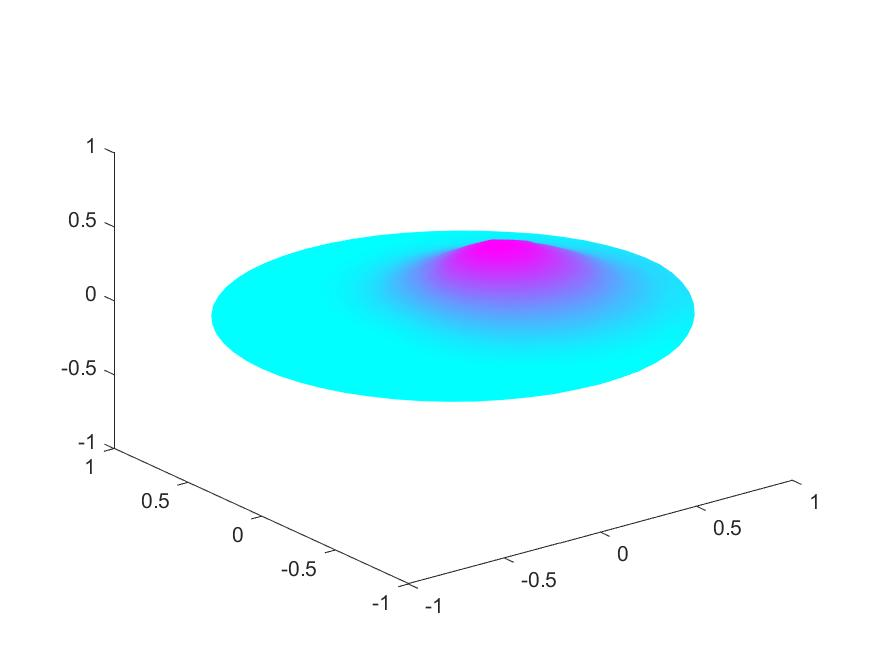
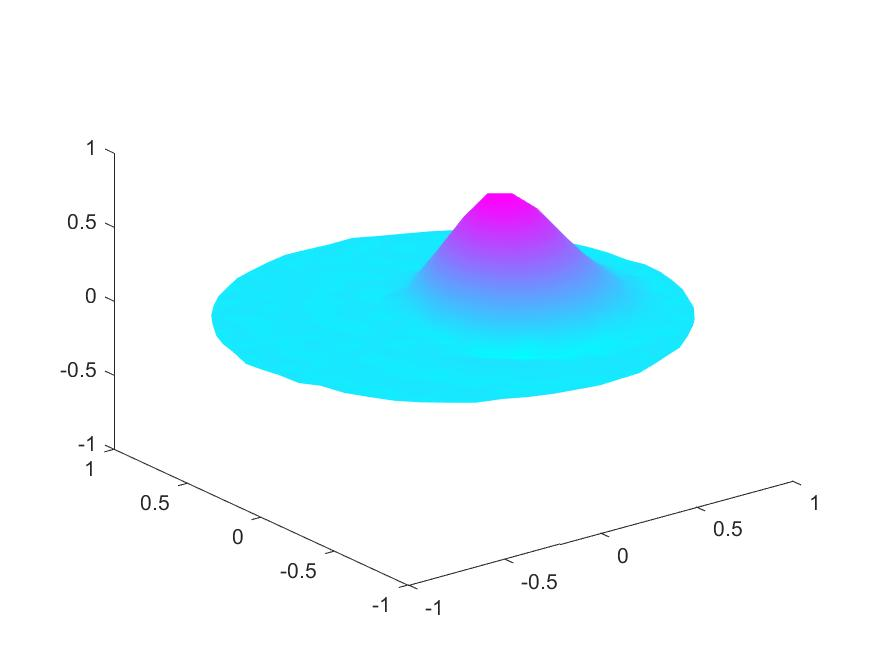
Fixed RV in FEM project, Piccard iteration nearly done in Project 3

diff --git a/FDM_Assign3_Julien/Code/RunPart1.m b/FDM_Assign3_Julien/Code/RunPart1.m
@@ -2,28 +2,125 @@ close all;
 clear all;
 
 
-gridDim = 101;
+gridDim = 201;
 numberOfIterations = 1000;
 deltaT = 0.4/numberOfIterations;
 a=1;
 c=2;
 %eps=.00001;
-x = linspace(-1,1,gridDim)'
-% for i=1:numberOfIterations
-%     u = AnalyticSolution(x,deltaT*i, c, a, eps);
-%     plot(u
-%     ylim([0,5])
-%     drawnow
-% 
-% end %for, i
+x = linspace(-1,1,gridDim)';
+u = AnalyticSolution(x,0, c, a, eps);
+plot(u,'linewidth',2)
+title('Analytic solution: t=0')
+print('ANM_Ass_3_FDM_analyticSolutionBegin','-djpeg')
+for i=1:numberOfIterations
+    u = AnalyticSolution(x,deltaT*i, c, a, eps);
+    
+    plot(u)
+    ylim([0,5])
+    drawnow
 
 
-
-v = RunSimulation3(gridDim, deltaT, numberOfIterations, @MakeSBP2Operators_Variable);
-
-v
-plot(v);
+end %for, i
+title('Analytic solution: t=T')
+print('ANM_Ass_3_FDM_analyticSolutionEnd','-djpeg')
 
 
+%v = RunSimulation3(gridDim, deltaT, numberOfIterations, @MakeSBP6Operators_Variable);
+
+%plot(v);
+%title('SBP 6 solution: t=T')
+
+
+%% Task 4
+vAnalytic = AnalyticSolution(x,0.4, c, a, eps);
+v2 = RunSimulation3(gridDim, deltaT, numberOfIterations, @MakeSBP2Operators_Variable, eps);
+
+norm(vAnalytic-v2,2)
+
+v4 = RunSimulation3(gridDim, deltaT, numberOfIterations, @MakeSBP4Operators_Variable, eps);
+norm(vAnalytic-v4,2)
+
+
+v6 = RunSimulation3(gridDim, deltaT, numberOfIterations, @MakeSBP6Operators_Variable, eps);
+norm(vAnalytic-v6,2)
+
+subplot(3,1,1)
+plot(v2)
+title('SBP 2 solution: t=T','linewidth',1.3);
+subplot(3,1,2)
+plot(v4)
+title('SBP 4 solution: t=T','linewidth',1.3);
+subplot(3,1,3)
+plot(v6)
+title('SBP 6 solution: t=T','linewidth',1.3);
+
+
+print('ANM_Ass_3_FDM_SBPFinalState','-djpeg');
+
+%% Task 5
+m = 101;
+eps = 0.1;
+v_eps1 = RunSimulation3(m, deltaT, numberOfIterations, @MakeSBP4Operators_Variable, eps);
+
+m = 101;
+eps = 0.01;
+v_eps2 = RunSimulation3(m, deltaT, numberOfIterations, @MakeSBP4Operators_Variable, eps);
+
+m = 101;
+eps = 0.001;
+v_eps3 = RunSimulation3(m, deltaT, numberOfIterations, @MakeSBP4Operators_Variable, eps);
+
+m = 101;
+eps = 10^(-6);
+v_eps4 = RunSimulation3(m, deltaT, numberOfIterations, @MakeSBP4Operators_Variable, eps);
+
+subplot(4,1,1)
+plot(v_eps1)
+title('SBP 4 solution: eps = 0.1','linewidth',1.3);
+subplot(4,1,2)
+plot(v_eps2)
+title('SBP 4 solution: eps = 0.01','linewidth',1.3);
+subplot(4,1,3)
+plot(v_eps3)
+title('SBP 4 solution: eps = 0.001','linewidth',1.3);
+subplot(4,1,4)
+plot(v_eps4)
+title('SBP 4 solution: eps = 10^{-6}','linewidth',1.3);
+
+print('ANM_Ass_3_FDM_dependenceEps','-djpeg');
+
+
+%% Task 6
+m = 101;
+eps = 10^(-6);
+v11 = RunSimulation3(m, deltaT, numberOfIterations, @MakeSBP2Operators_Variable, eps);
+v21 = RunSimulation3(m, deltaT, numberOfIterations, @MakeSBP4Operators_Variable, eps);
+v31 = RunSimulation3(m, deltaT, numberOfIterations, @MakeSBP6Operators_Variable, eps);
+
+
+v12 = RunSimulation3(m, deltaT, numberOfIterations, @MakeSBP2Operators_Variable, eps);
+v22 = RunSimulation3(m, deltaT, numberOfIterations, @MakeSBP4Operators_Variable, eps);
+v32 = RunSimulation3(m, deltaT, numberOfIterations, @MakeSBP6Operators_Variable, eps);
+
+subplot(3,2,1)
+plot(v11)
+title('SBP 2 sol.','linewidth',1.3);
+subplot(3,2,3)
+plot(v21)
+title('SBP 4 sol.','linewidth',1.3);
+subplot(3,2,5)
+plot(v31)
+title('SBP 6 sol.','linewidth',1.3);
+subplot(3,2,2)
+plot(v12)
+title('SBP 2 sol.: Artificial dissipation','linewidth',1.3)
+subplot(3,2,4)
+plot(v22)
+title('SBP 4 sol.: Artificial dissipation','linewidth',1.3)
+subplot(3,2,6)
+plot(v32)
+title('SBP 6 sol: Artificial dissipation','linewidth',1.3)
+print('ANM_Ass_3_FDM_AD','-djpeg')
 
 

diff --git a/FDM_Assign3_Julien/Code/RunSimulation3.m b/FDM_Assign3_Julien/Code/RunSimulation3.m
@@ -1,9 +1,9 @@
-function v = RunSimulation3(gridDim, deltaT, numberOfIterations, MakeSBPOperators)
+function v = RunSimulation3(gridDim, deltaT, numberOfIterations, MakeSBPOperators, eps)
 
     %initialisation
     c = 2;
     a = 1;
-    eps = .00001;
+    
     
     %space
     h = 2/(gridDim-1);
@@ -11,7 +11,10 @@ function v = RunSimulation3(gridDim, deltaT, numberOfIterations, MakeSBPOperator
 
     %initial data
     v = AnalyticSolution(x,0,c,a,eps);
-    [HI, D1, D2, DD, M, MakeD2] = MakeSBPOperators(gridDim);
+    plot(v)
+    
+    %[HI, D1, D2, DD, M, MakeD2] = MakeSBPOperators(gridDim);
+    [HI, D1, D2, DD, M] = MakeSBPOperators(gridDim);
     Hinv = HI;
     
     gamma = 1;
@@ -19,15 +22,16 @@ function v = RunSimulation3(gridDim, deltaT, numberOfIterations, MakeSBPOperator
     
     
     %runge kutta step
-    vprevaaa = v;
+    %vprevaaa = v;
     for i=1:numberOfIterations
         %v = RungeKutta4Step(@(t,v) SAT_iterate(t,v,D1,D2,Hinv,eps), i*deltaT, v, deltaT);
-        %v = RungeKutta4Step(@(t,v) SAT_iterate_AD(t,v,D1,D2,DI,Hinv,eps), i*deltaT, v, deltaT);
-        Iterate = @(t,v,vprev) SAT_iterate_RV( t, v, vprev, D1, D2, MakeD2, Hinv, deltaT, h, eps);
-        v_new = RungeKutta4StepEx(Iterate, i*deltaT, v, vprevaaa, deltaT);
-        vprevaaa = v;
-        v = v_new;
-        figure(1);
+        v = RungeKutta4Step(@(t,v) SAT_iterate_AD(t,v,D1,D2,DI,Hinv,eps), i*deltaT, v, deltaT);
+        
+        %Iterate = @(t,v,vprev) SAT_iterate_RV( t, v, vprev, D1, D2, MakeD2, Hinv, deltaT, h, eps);
+        %v_new = RungeKutta4StepEx(Iterate, i*deltaT, v, vprevaaa, deltaT);
+        %vprevaaa = v;
+        %v = v_new;
+        %figure(1);
         plot(v)
         ylim([0,5])
         drawnow
@@ -35,4 +39,5 @@ function v = RunSimulation3(gridDim, deltaT, numberOfIterations, MakeSBPOperator
             break;
         end
     end
+    
 end

diff --git a/FEM_Assign1/Code/SolverRV.m b/FEM_Assign1/Code/SolverRV.m
@@ -16,35 +16,13 @@ function [U, M] = SolverRV(p, t, xiInitial, timeStep, numIters)
         B = -1/2*C + 1/timeStep*M - 1/2*RV;
         bb = B*xi;
         xi_new = A\bb;
-        r = Residual(p, t, xi_new, xi, timeStep);
+        r = Residual(M, C, xi_new, xi, timeStep);
         xi = xi_new;
         U(:,i+1)=xi;
     end
 end
 
-function r = Residual(p, t, xi, xi_old, timeStep)
-    np=size(p,2); nt=size(t,2);     
-    r = ones(np, 1)*-5000;
-    
-    for i=1:nt 
-        nodeIndices=t(1:3,i);
-        
-        % Calculate grad(U) for triangle.
-        x=p(1,nodeIndices);
-        y=p(2,nodeIndices);
-        z=xi(nodeIndices);
-        v1 = [x(1), y(1), z(1)] - [x(2), y(2), z(2)];
-        v2 = [x(1), y(1), z(1)] - [x(3), y(3), z(3)];
-        num1 = v1(3)*v2(2) - v1(2)*v2(3);
-        num2 = v1(1)*v2(3) - v2(1)*v1(3);
-        den = v2(2)*v1(1) - v1(2)*v2(1);
-        dzdx = num1/den;
-        dzdy = num2/den;
-        
-        % Calculate residual for the 3 points of the triangle using grad(U)
-        % for the triangle.        
-        z_old=xi_old(nodeIndices);
-        rTriangle = 1/timeStep*(z-z_old) + 2*pi*[-y', x']*[dzdx; dzdy];
-        r(nodeIndices) = max(r(nodeIndices), max(abs(rTriangle)));
-    end
+function r = Residual(M, C, xi, xi_old, timeStep)
+    lhs = 1/timeStep*(M*(xi - xi_old)) + C*xi;
+    r = M\lhs;
 end

diff --git a/FEM_Assign1/Code/RunPart2.m b/FEM_Assign1/Code/RunPart2.m
@@ -1,10 +1,12 @@
 close all;
 %ProblemOptimal();
 close all;
-Problem22();
+%Problem22();
 close all;
-%Problem23();
+Problem23();
 close all;
+
+%convergence for RV: smooth: 1.7237, discont.: 0.48594
 
 function MakeAnims(RunSimulationFunc, InitialFunc, simName)
     h = [1/8, 1/16];
@@ -33,6 +35,11 @@ function CalcConvergence(RunSimulationFunc, InitialFunc, simName)
         L2Errors(i) = sqrt(nodeError'*M*nodeError);
     end
     
+    % Calculate slope
+    coeffs = polyfit(log(h), log(L2Errors), 1);
+    alpha = coeffs(1);
+    disp(['Convergence rate = ', num2str(alpha)]);
+    
     % Plot h vs L2Error
     figure;
     subplot(1,2,1)
@@ -60,10 +67,10 @@ end
 function Problem22()
     MakeAnims(@RunSimulationGLS, @InitialBoobyFunction, 'gls_smooth');
     close all;
-    %MakeAnims(@RunSimulationRV, @InitialBoobyFunction, 'rv_smooth');
+    MakeAnims(@RunSimulationRV, @InitialBoobyFunction, 'rv_smooth');
     close all;
-    %CalcConvergence(@RunSimulationGLS, @InitialBoobyFunction, 'gls_smooth');
-    %CalcConvergence(@RunSimulationRV, @InitialBoobyFunction, 'rv_smooth');
+    CalcConvergence(@RunSimulationGLS, @InitialBoobyFunction, 'gls_smooth');
+    CalcConvergence(@RunSimulationRV, @InitialBoobyFunction, 'rv_smooth');
     close all;
 end
 

diff --git a/FEM_Assign3/Code/ConvectionMatrixGFEM.m b/FEM_Assign3/Code/ConvectionMatrixGFEM.m
@@ -5,24 +5,17 @@ function convectionMatrix = ConvectionMatrixGFEM(p,t, uprev)
     
     for i=1:numTriangles
         nodeIndices = t(1:3,i);
-        x=p(1,nodeIndices);
-        y=p(2,nodeIndices);
+        %x=p(1,nodeIndices);
+        %y=p(2,nodeIndices);
 
         [area,b,c] = HatGradients(x,y);
-        [sK, cK] = fK(nodeIndices, uprev);
-            
-        subMatrix=ones(3,1)*(sK*b + cK*c)'*area/3;
+    
+        %bxmid = mean(-2*pi*y);
+        %bymid = mean(2*pi*x);
+        fprimeUprev1 = cos(uprev(nodeIndices));
+        fprimeUprev2 = -sin(uprev(nodeIndices));
+    
+        subMatrix=ones(3,1)*(fprimeUprev2*b + fprimeUprev2*c)'*area/3;
         convectionMatrix(nodeIndices,nodeIndices) = convectionMatrix(nodeIndices,nodeIndices) + subMatrix;
     end
-end
-
-function [s,c] = f(u)
-    s = sin(u);
-    c = cos(u);
-end
-
-function [sK, cK] = fK(nodeIndices, u)
-    [s, c] = f(u(nodeIndices));
-    sK = mean(s);
-    cK = mean(c);
 end

diff --git a/FEM_Assign1/Code/ConvectionMatrixRV.m b/FEM_Assign1/Code/ConvectionMatrixRV.m
@@ -19,14 +19,15 @@ function convectionMatrix = ConvectionMatrixRV(p, t, u, r)
         convectionMatrix(nodeIndices,nodeIndices)=convectionMatrix(nodeIndices,nodeIndices)+subMatrix;
     end
     
-    figure(9);
-    pdesurf(p, t, ekv);
-    hold on;
-    line([0,1.5],[0,0],[0,0],'Color','red', 'LineWidth', 2);
-    line([0,0],[0,1.5],[0,0],'Color','green', 'LineWidth', 2);
-    line([0,0],[0,0],[0,1.5],'Color','blue', 'LineWidth', 2);
-    hold off;
-    title("Artificial viscosity coeff");
+%     figure(9);
+%     pdesurf(p, t, ekv);
+%     hold on;
+%     line([0,1.5],[0,0],[0,0],'Color','red', 'LineWidth', 2);
+%     line([0,0],[0,1.5],[0,0],'Color','green', 'LineWidth', 2);
+%     line([0,0],[0,0],[0,1.5],'Color','blue', 'LineWidth', 2);
+%     hold off;
+%     title('Artificial viscosity coeff');
+%     drawnow;
 end
 
 function hk = ElementMeshSize(x, y)

diff --git a/FEM_Assign3/Code/SolverCN.m b/FEM_Assign3/Code/SolverCN.m
@@ -3,16 +3,15 @@ function U = SolverCN(massMatrix, p, t, xiInitial, timeStep, numIters)
     
     numNodes = length(xiInitial);
     U = zeros(numNodes, numIters+1);
-    U(:,1) = xi;    
+    U(:,1) = xi;
+    
+    M = massMatrix;
     
     for i=1:numIters
-        convectionMatrix = ConvectionMatrixGFEM(p,t,xi);
+        C = ConvectionMatrixGFEM(p,t,xi);
+        deltaXi = (M/timeStep - C/2)\b;
         
-        A = convectionMatrix/2 + massMatrix/timeStep;
-        B = massMatrix/timeStep - convectionMatrix/2;
-    
-        bb = B*xi;
-        xi_new = A\bb;
+        xi_new = xi + deltaXi;
         xi = xi_new;
         U(:,i+1)=xi;
     end
